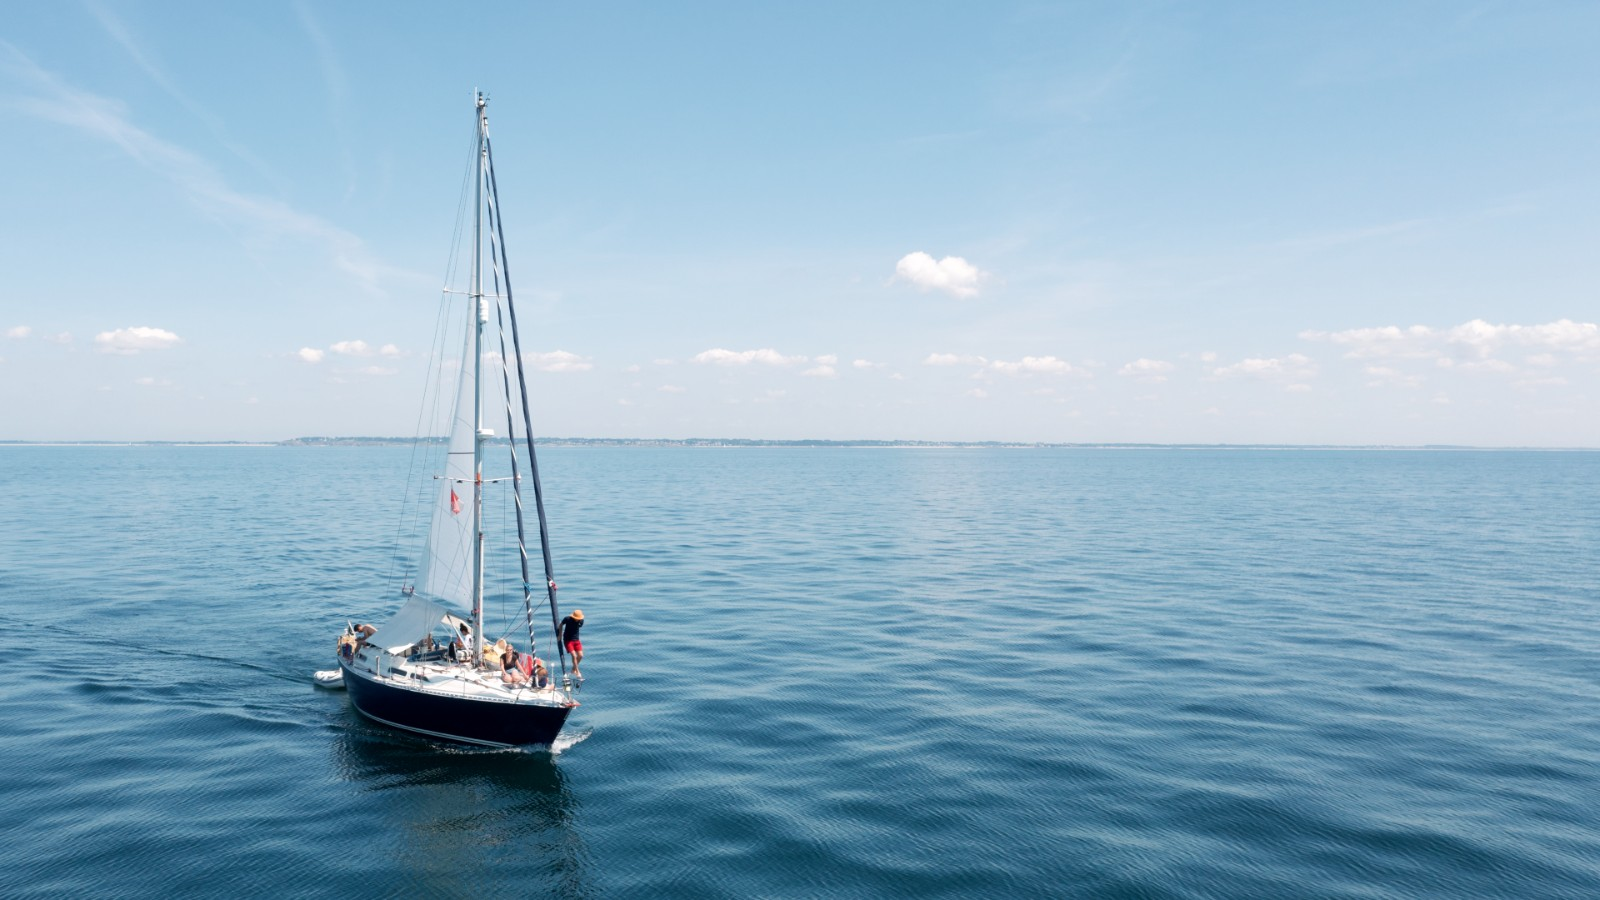
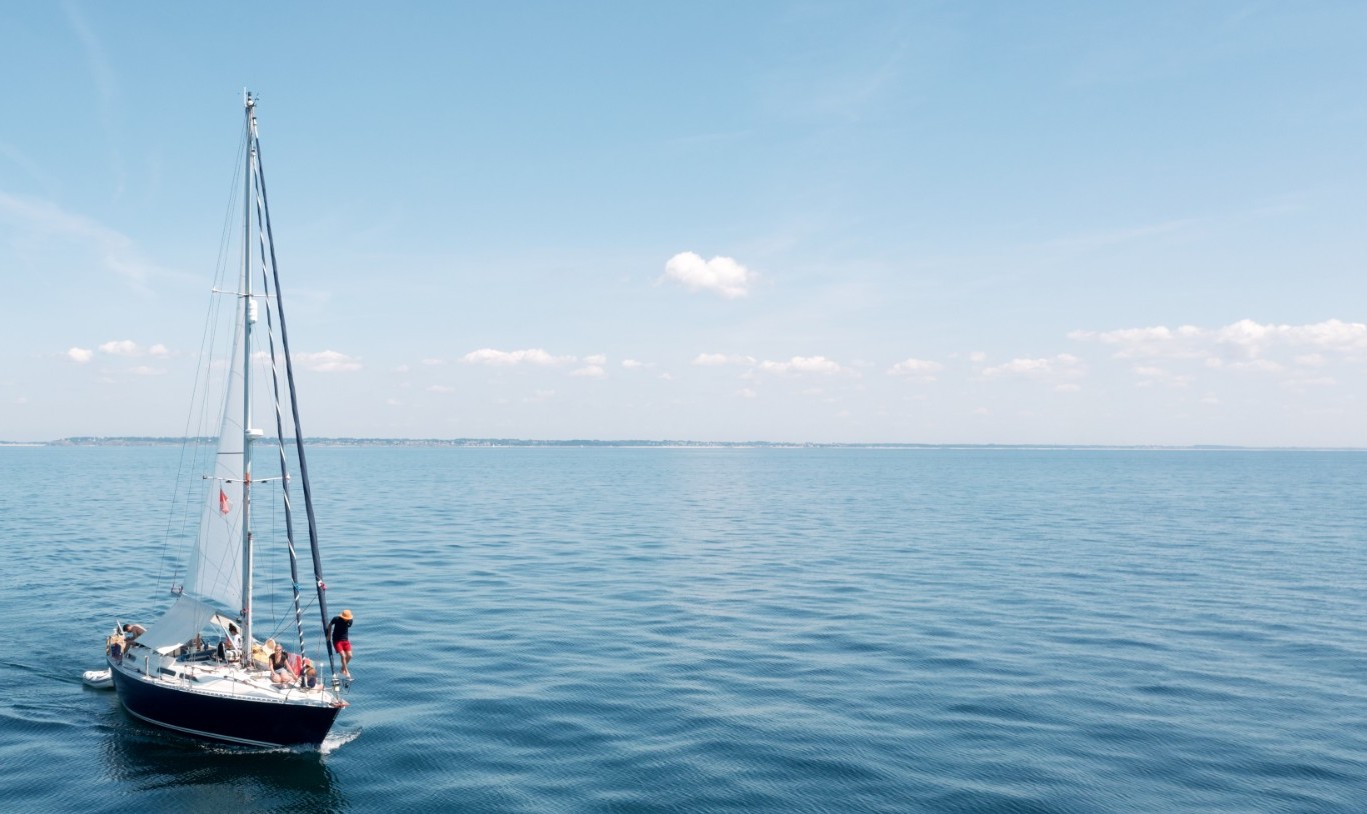
enhance: improvements based on comments

diff --git a/components/InstagramSection.vue b/components/InstagramSection.vue
@@ -1,44 +1,65 @@
 <template>
-  <div class="max-w-screen-md mx-auto px-container py-20">
-    <h2 class="font-heading tracking-heading uppercase text-4xl text-center">
-      Gallerie
-    </h2>
+  <div>
+    <div class="max-w-screen-md mx-auto px-container py-20">
+      <h2 class="text-blue-royal font-heading tracking-heading uppercase text-4xl text-center">
+        Galerie
+      </h2>
 
-    <div class="mt-12 grid grid-cols-3 gap-1 sm:gap-2 md:gap-4">
-      <a
-        v-for="({node}) in posts"
-        :key="node.id"
-        class="pb-full relative group"
-        :href="`https://instagram.com/p/${node.shortcode}/`"
-        target="_blank"
-        rel="noopener">
-        <img
-          class="absolute inset-0 object-cover"
-          :src="node.thumbnail_src">
-        <div class="absolute inset-0 bg-blue-royal bg-opacity-0 group-hover:bg-opacity-50 transition-color duration-150 ease-in-out text-white flex items-center justify-center">
-          <div class="opacity-0 transform translate-y-2 group-hover:translate-y-0 group-hover:opacity-100 flex items-center transition duration-150 ease-in-out font-heading text-xl">
-            <template v-if="node.is_video">
-              <div>
-                <play-icon class="w-4 h-4 fill-current text-white" />
-              </div>
-              <div class="ml-4">
-                {{ node.video_view_count }}
-              </div>
-            </template>
-            <template v-else>
-              <heart-icon class="w-4 h-4 fill-current text-white" />
-              <div class="ml-4">
-                {{ node.edge_media_preview_like.count }}
-              </div>
-            </template>
+      <div class="mt-12 grid grid-cols-3 gap-1 sm:gap-2 md:gap-4">
+        <a
+          v-for="({node}) in posts"
+          :key="node.id"
+          class="pb-full relative group"
+          :href="`https://instagram.com/p/${node.shortcode}/`"
+          target="_blank"
+          rel="noopener">
+          <img
+            class="absolute inset-0 object-cover"
+            :src="node.thumbnail_src">
+          <div class="absolute inset-0 bg-blue-royal bg-opacity-0 group-hover:bg-opacity-50 transition-color duration-150 ease-in-out text-white flex items-center justify-center">
+            <div class="opacity-0 transform translate-y-2 group-hover:translate-y-0 group-hover:opacity-100 flex items-center transition duration-150 ease-in-out font-heading text-xl">
+              <template v-if="node.is_video">
+                <div>
+                  <play-icon class="w-4 h-4 fill-current text-white" />
+                </div>
+                <div class="ml-4">
+                  {{ node.video_view_count }}
+                </div>
+              </template>
+              <template v-else>
+                <heart-icon class="w-4 h-4 fill-current text-white" />
+                <div class="ml-4">
+                  {{ node.edge_media_preview_like.count }}
+                </div>
+              </template>
+            </div>
           </div>
-        </div>
+        </a>
+      </div>
+    </div>
+    <div class="p-8 flex justify-end items-center">
+      <a
+        href="https://vimeo.com/asterenmer"
+        target="_blank"
+        rel="noopener"
+        class="text-blue-royal rounded-full hover:bg-blue-royal hover:bg-opacity-25 transition-color duration-150 ease-in-out w-12 h-12 flex items-center justify-center">
+        <vimeo-icon class="fill-current w-6 h-6" />
+      </a>
+      <a
+        href="https://www.instagram.com/aster.en.mer/?hl=en"
+        target="_blank"
+        rel="noopener"
+        class="ml-4 text-blue-royal rounded-full hover:bg-blue-royal hover:bg-opacity-25 transition-color duration-150 ease-in-out w-12 h-12 flex items-center justify-center">
+        <instagram-icon class="stroke-current w-6 h-6" />
       </a>
     </div>
   </div>
 </template>
 
 <script>
+  import VimeoIcon from '~/assets/img/svg/vimeo.svg'
+  import InstagramIcon from '~/assets/img/svg/instagram.svg'
+
   export default {
     props: {
       posts: {
@@ -48,6 +69,8 @@
     },
 
     components: {
+      VimeoIcon,
+      InstagramIcon,
       HeartIcon: () => import('~/assets/img/svg/heart.svg'),
       PlayIcon: () => import('~/assets/img/svg/play.svg')
     }

diff --git a/components/AboutSection.vue b/components/AboutSection.vue
@@ -1,30 +1,28 @@
 <template>
   <div
-    class="bg-cover bg-center"
+    class="bg-cover bg-position"
     :style="{backgroundImage: `url(${require('~/assets/img/background.jpg')})`}">
     <div class="bg-blue-royal bg-opacity-50">
       <div class="max-w-screen-xl mx-auto px-container pt-20 pb-64 ">
-        <div class="grid grid-cols-3">
-          <div class="text-white text-lg col-span-2 col-start-2">
-            <h2 class="font-heading tracking-heading uppercase text-4xl">
-              À propos
-            </h2>
-            <p class="mt-4">
-              Aster en mer est un projet de passion mêlant la voile, le partage, les images et la vie.
-            </p>
+        <h2 class="text-center text-white font-heading tracking-heading uppercase text-4xl">
+          À propos
+        </h2>
+        <div class="max-w-2xl mx-auto text-white text-lg text-justify leading-7 text-shadow">
+          <p class="mt-8">
+            Aster en mer est un projet de passion mêlant la voile, le partage, les images et la vie.
+          </p>
 
-            <p class="mt-4">
-              À travers toutes les épreuves que ses équipiers ont pu traverser pour entretenir ce voilier, Aster, robuste Moody de 12m, s’offre maintenant de beaux et longs étés à l’eau collectionnant les milles nautiques entre la Bretagne et la Vendée.
-            </p>
+          <p class="mt-6">
+            À travers toutes les épreuves que ses équipiers ont pu traverser pour entretenir ce voilier, Aster, robuste Moody de 12m, s’offre maintenant de beaux et longs étés à l’eau collectionnant les milles nautiques entre la Bretagne et la Vendée.
+          </p>
 
-            <p class="mt-4">
-              Nous sommes heureux de naviguer et de partager les aventures d’Aster sur ce site ou sur Instagram. Ce projet de rencontre accueille, chaque année, toujours plus de passionnés ou curieux à bord pour un partage d’un soir, d’une semaine ou d’une vie.
-            </p>
+          <p class="mt-6">
+            Nous sommes heureux de naviguer et de partager les aventures d’Aster sur ce site ou sur Instagram. Ce projet de rencontre accueille, chaque année, toujours plus de passionnés ou curieux à bord pour un partage d’un soir, d’une semaine ou d’une vie.
+          </p>
 
-            <p class="mt-4">
-              À bientôt sur l’eau!
-            </p>
-          </div>
+          <p class="mt-6">
+            À bientôt sur l’eau!
+          </p>
         </div>
       </div>
 
@@ -59,3 +57,19 @@
     }
   }
 </script>
+
+<style scoped>
+  .text-shadow {
+    text-shadow: 2px 3px 5px rgba(19, 42, 81, 0.2);
+  }
+
+  .bg-position {
+    background-position: -100px bottom;
+  }
+
+  @screen sm {
+    .bg-position {
+      @apply bg-left-bottom;
+    }
+  }
+</style>

diff --git a/components/ContactSection.vue b/components/ContactSection.vue
@@ -5,29 +5,29 @@
         Contact
       </h2>
 
-      <h2 class="font-heading tracking-heading uppercase text-4xl text-center">
+      <h2 class="font-heading tracking-heading uppercase text-xl text-center">
         Crew members
       </h2>
 
-      <div class="my-8 flex flex-wrap items-center justify-center">
+      <div class="mt-4 mb-8 mx-auto flex items-center justify-center flex-wrap">
         <a
           v-for="member in members"
           :key="member.name"
           :href="member.href"
           target="_blank"
           rel="noopener"
-          class="m-4 flex flex-col items-center transform hover:-translate-y-2 transition-transform ease-in-out duration-300">
+          class="w-24 flex-shrink-0 flex flex-col items-center m-4 transform hover:-translate-y-2 transition-transform ease-in-out duration-300">
           <v-lazy-image
             class="w-20 h-20 rounded-full object-cover border-2 border-white"
             v-bind="member.image" />
-          <div class="mt-4 text-sm font-medium uppercase tracking-widest font-heading">
+          <div class="mt-4 text-sm font-medium uppercase tracking-widest font-heading whitespace-no-wrap">
             {{ member.name }}
           </div>
         </a>
       </div>
 
       <div class="p-4 border-t border-white text-sm flex justify-between items-center">
-        copyright 2k20
+        Aster en mer 2020
         <div class="flex">
           <a
             href="https://vimeo.com/asterenmer"
